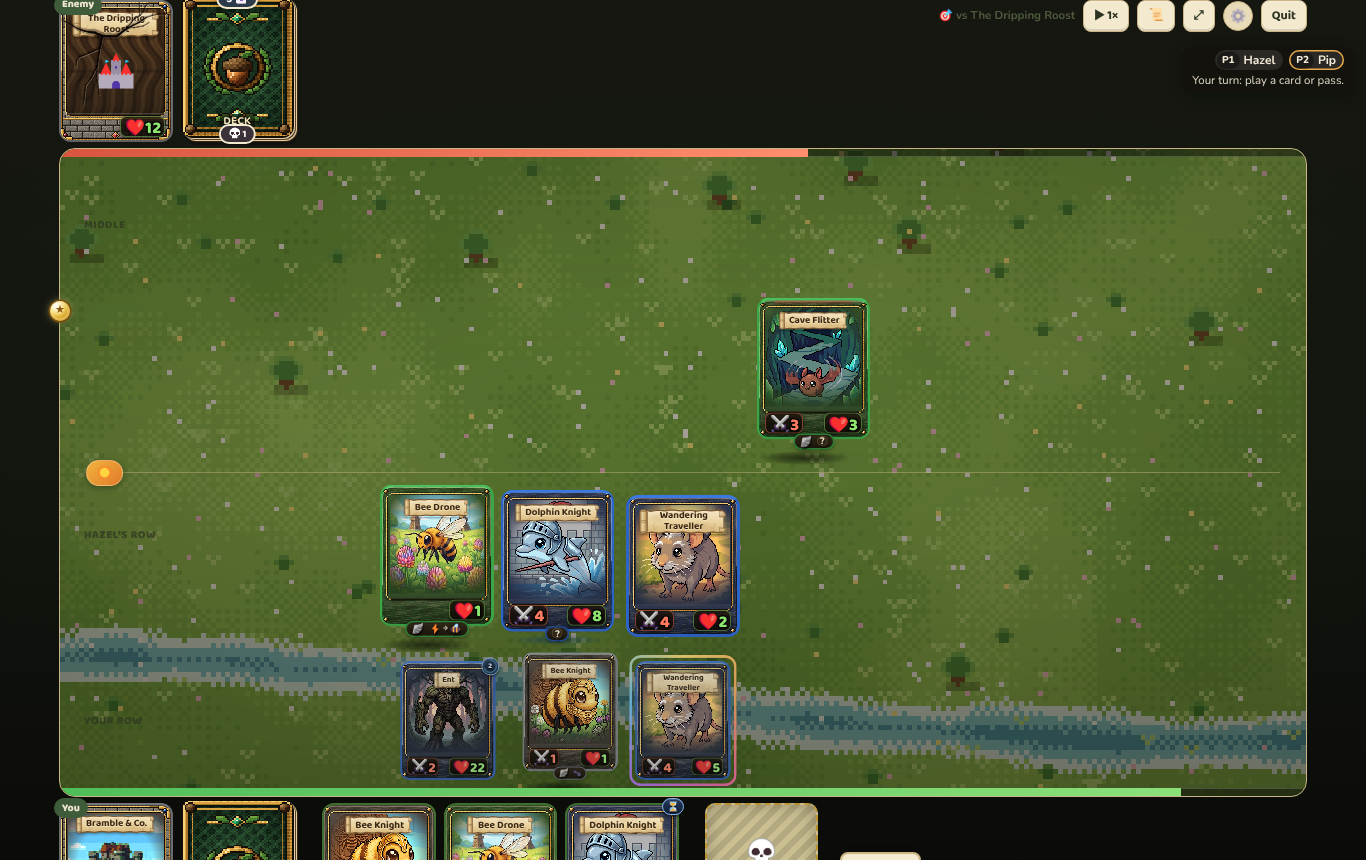
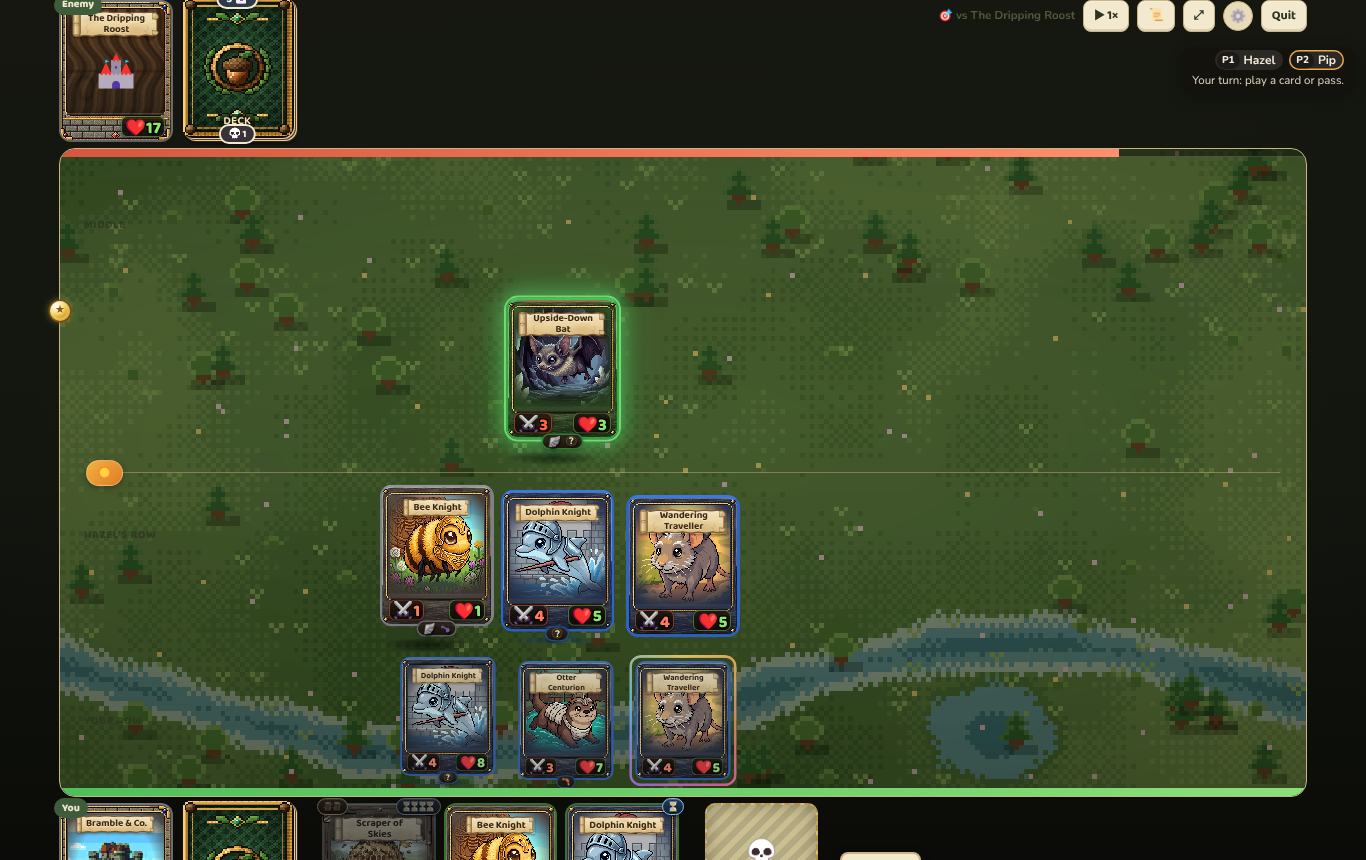
COOP2: raid-fixes source check follows the coop board's seven columns; screenshots
Claude-Session: https://claude.ai/code/session_01FLq7wToSrTQpVQBsVhz3ZD

diff --git a/tests/raid-fixes-2026-10-18.js b/tests/raid-fixes-2026-10-18.js
@@ -91,7 +91,7 @@ ok(/ev\.field==='volleyCastle'\)\) && m\.displayHqHp/.test(src) && /displayHqDam
   ok(mc.name === 'Fortified Nest & Co.' && mc.art === 'art/castles/nest.png' && mc.id === 'fortified-nest' && mc.raidMerged, `the merged castle is yours "& Co." with your art (${mc.name}, ${mc.art})`);
   ok(mc.health === 100 && mc.effects.a === 3 && mc.effects.b === true, 'its Health and passives are still all three added up'); }
 ok(/def\.raidMerged \? ' raid-castles'/.test(src), 'the merged castle keeps the raid-castles tile class');
-ok(/m\.raidFull \? 3 : 0\)/.test(src) && /if\(raid && mm\._raidFrameKey === raidFrameKey\(mm\)\) return;/.test(src), 'the raid board is seven columns from the start and keeps one framing');
+ok(/\(m\.raidFull \|\| m\.coop\) \? 3 : 0\)/.test(src) /* 2026-10-28 (COOP2): the group dungeon's board is seven columns too */ && /if\(raid && mm\._raidFrameKey === raidFrameKey\(mm\)\) return;/.test(src), 'the raid board is seven columns from the start and keeps one framing');
 ok(/const lean = raidCols \? null/.test(src), 'the raid camera doesn\'t lean');
 ok(/\.board-row\.reserve-row > \.board-card\{transform:scale\(\.84\)/.test(tpl), 'back-row cards are 20% larger (.84 of a front card, were .7)');
 ok(/extra time as each round starts/.test(R.describeStage({name:'Enraged', rules:{extraVolley:1}}, {})), 'a stage\'s extra volley reads as extra');
